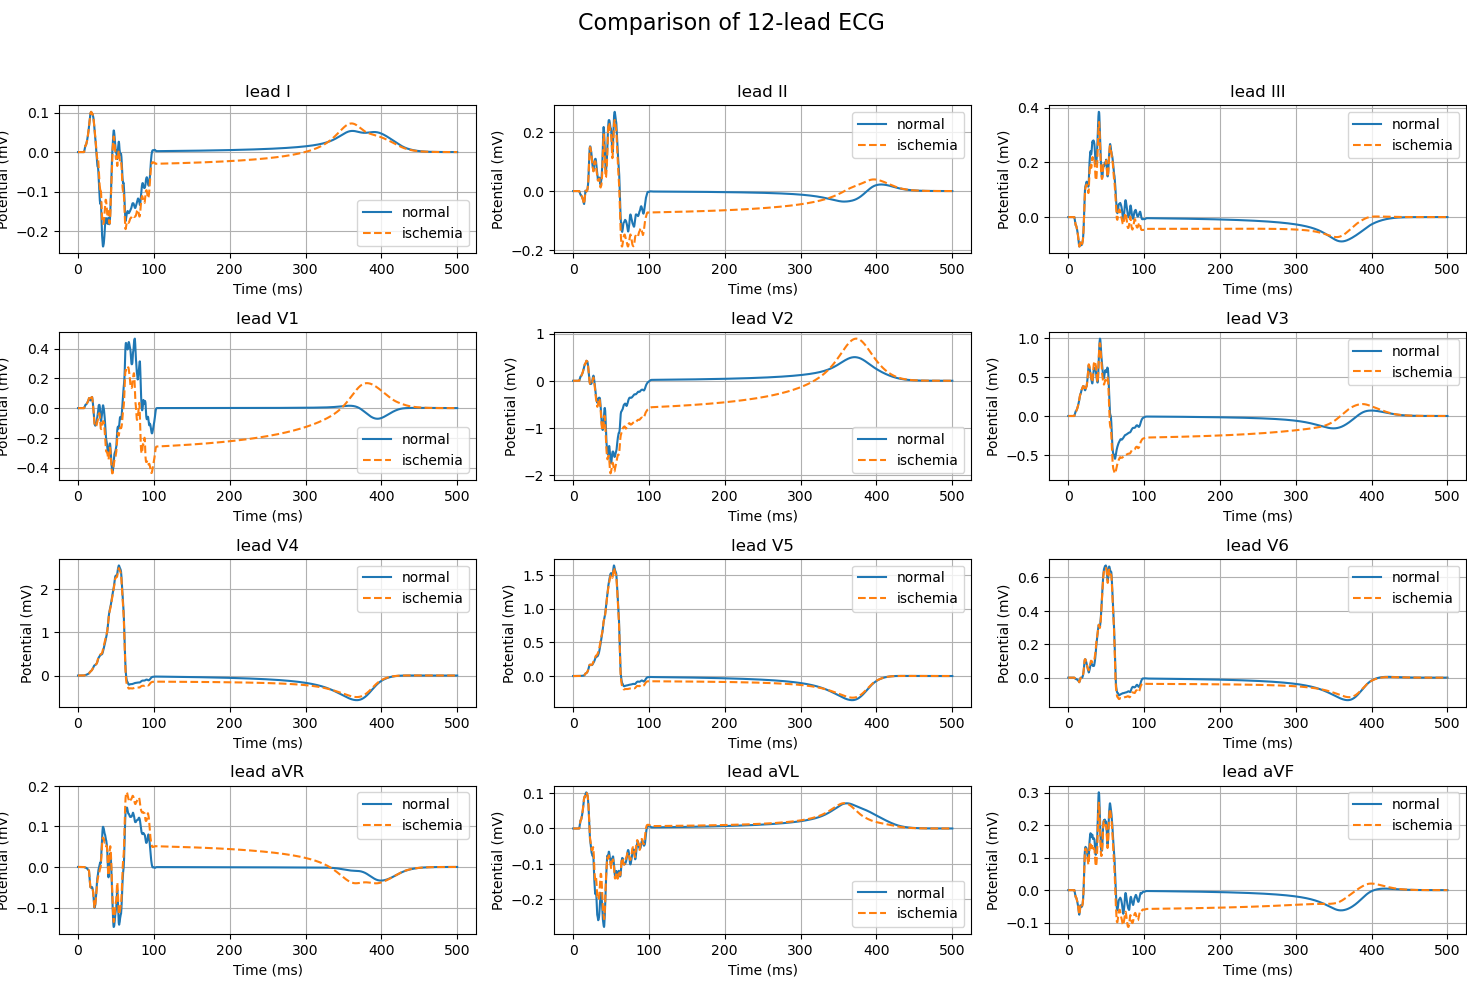
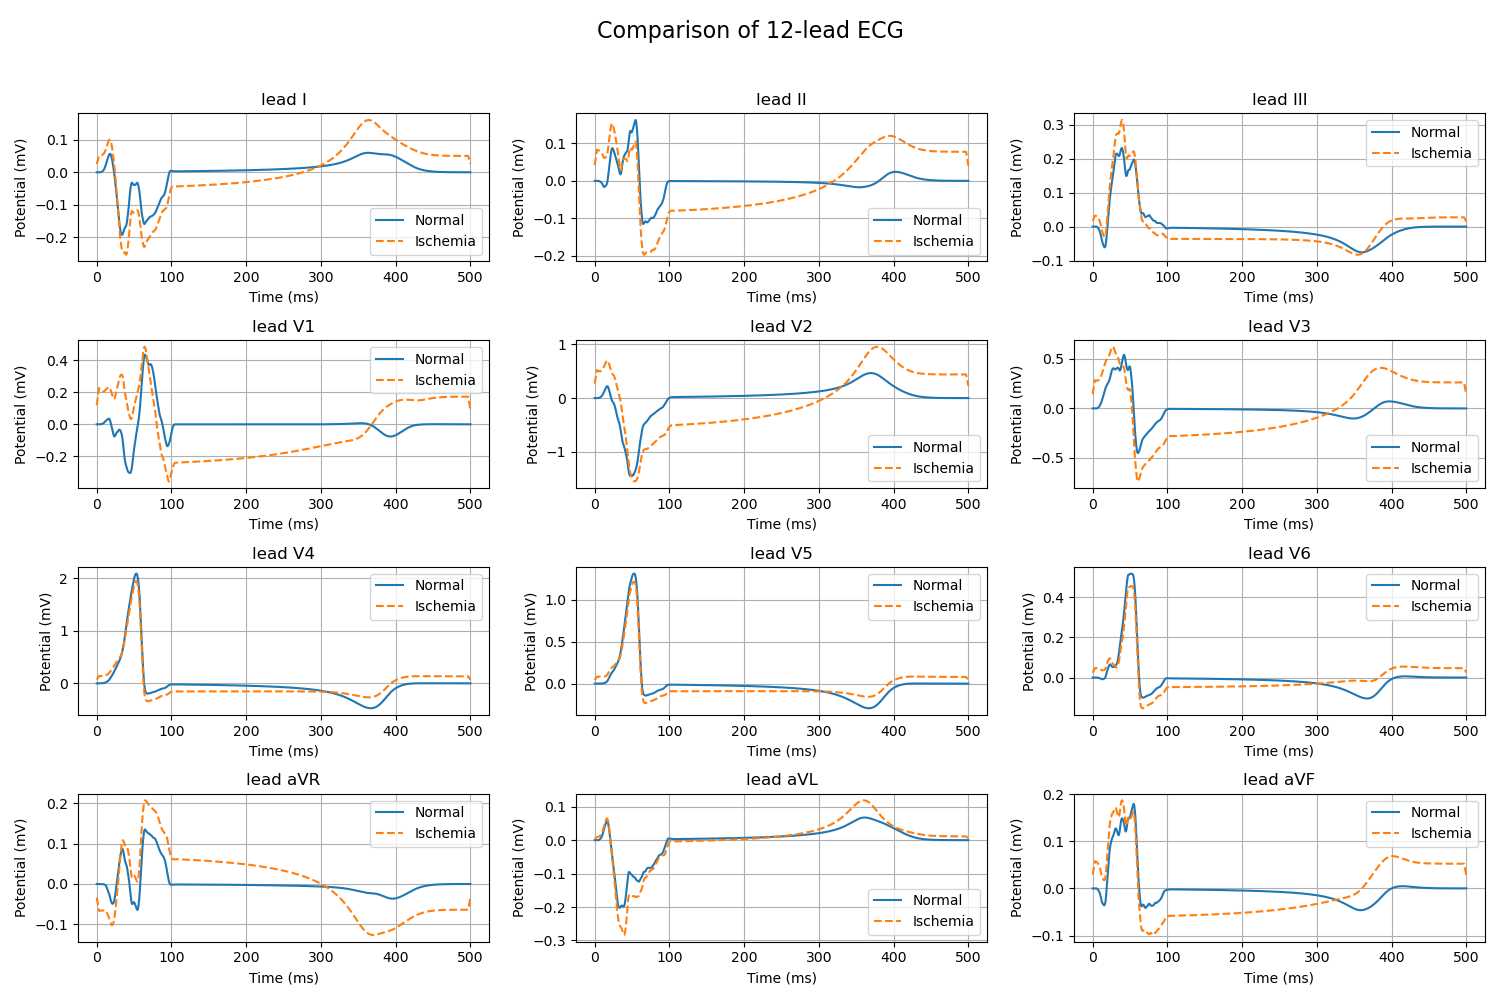
11.17 report

Changed region(s): [[0.0, 0.0914, 1.0, 1.0], [0.3988, 0.0, 0.6135, 0.0609], [0.4294, 0.4873, 0.5521, 0.6091]]

diff --git a/Documents/Reports/11_17.md b/Documents/Reports/11_17.md
@@ -1,21 +1,24 @@
 # 11.17
 
-## 激活加密 V1波形
+## V1波形
 
-单点起源 12导联波形依旧有问题
+### 单点起源
 
 ![alt text](figs/11_17_one_stim_ecg.png)
 
-多激活无法解决激活问题
+### 多激活
 
-推测有可能是几何问题 ECGsim也有抖动
+![alt text](figs/11_17_multi_stim_ecg.png)
 
-参数突变？
-参数光滑化
+### 推测有可能是几何问题 ECGsim也有抖动
 
-直接对结果光滑
+参数突变？参数光滑化
 
-## 时域加密测空间
+### 直接对结果光滑
+
+![alt text](figs/11_17_smooth_ecg.png)
+
+## 时域加密测空间收敛
 
 timestep = 16
 lc_inner = 4, 8, 16, 32
@@ -24,6 +27,8 @@ lc_inner = 4, 8, 16, 32
 ## apd90 作图
 
 已添加作图功能
+
+![alt text](figs/11_17_apd.png)
 
 ## v2-v6压低 内膜缺血
 
@@ -41,6 +46,8 @@ v接近0强制归0
 成功修改：强制单调减
 
 ## 不同参数影响
+
+![alt text](figs/11_17_parameter_effect.png)
 
 ### tau_in
 
